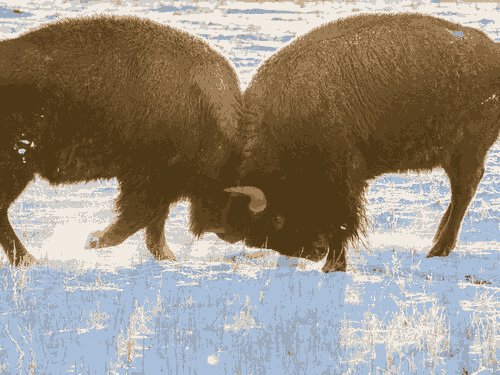
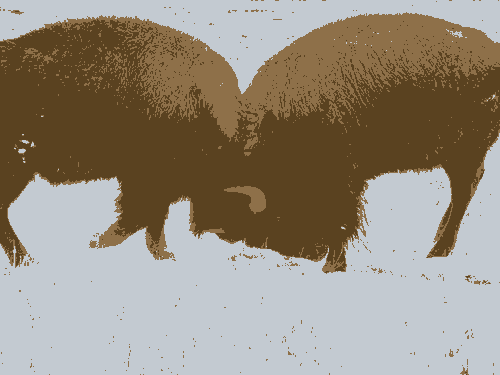
clean main

diff --git a/src/main.rs b/src/main.rs
@@ -15,35 +15,22 @@ fn main() -> Result<(), Box<dyn Error>> {
     let Args { file, debug: _ } = Args::parse();
 
     let image = ImageReader::open(file)?.decode()?;
-    // note this is a 1D array (so there are pixels.len() / 3 actual RGB pixels)
     let pixels = image.to_rgb8().to_vec();
 
-    // TODO: get cluster n from input but as a u8 and ensure it is below u8::MAX
-    let n = 3;
+    let n = 3; // TODO: get cluster n from input as u8 with bounds check
 
     let mut centroids = get_random_centroids(&pixels, n)?;
     let mut labelled_pixels = cluster_pixels(&pixels, &centroids);
-    centroids = update_centroids(&pixels, &labelled_pixels, n);
 
     loop {
+        centroids = update_centroids(&pixels, &labelled_pixels, n);
         let new_labelled_pixels = cluster_pixels(&pixels, &centroids);
 
         if compare_clustered_pixels(&new_labelled_pixels, &labelled_pixels) {
-            println!(
-                "Random pixel in new labelled pixels: {}",
-                new_labelled_pixels[10000]
-            );
-            println!(
-                "Same random pixel in old labelled pixels: {}",
-                labelled_pixels[10000]
-            );
             break;
         }
 
-        labelled_pixels = new_labelled_pixels.clone();
-
-        centroids = update_centroids(&pixels, &new_labelled_pixels, n);
-        println!("Updated centroids: {:?}", centroids);
+        labelled_pixels = new_labelled_pixels;
     }
 
     let reconstructed_pixels = reconstruct_image(&pixels, &labelled_pixels, &centroids);
